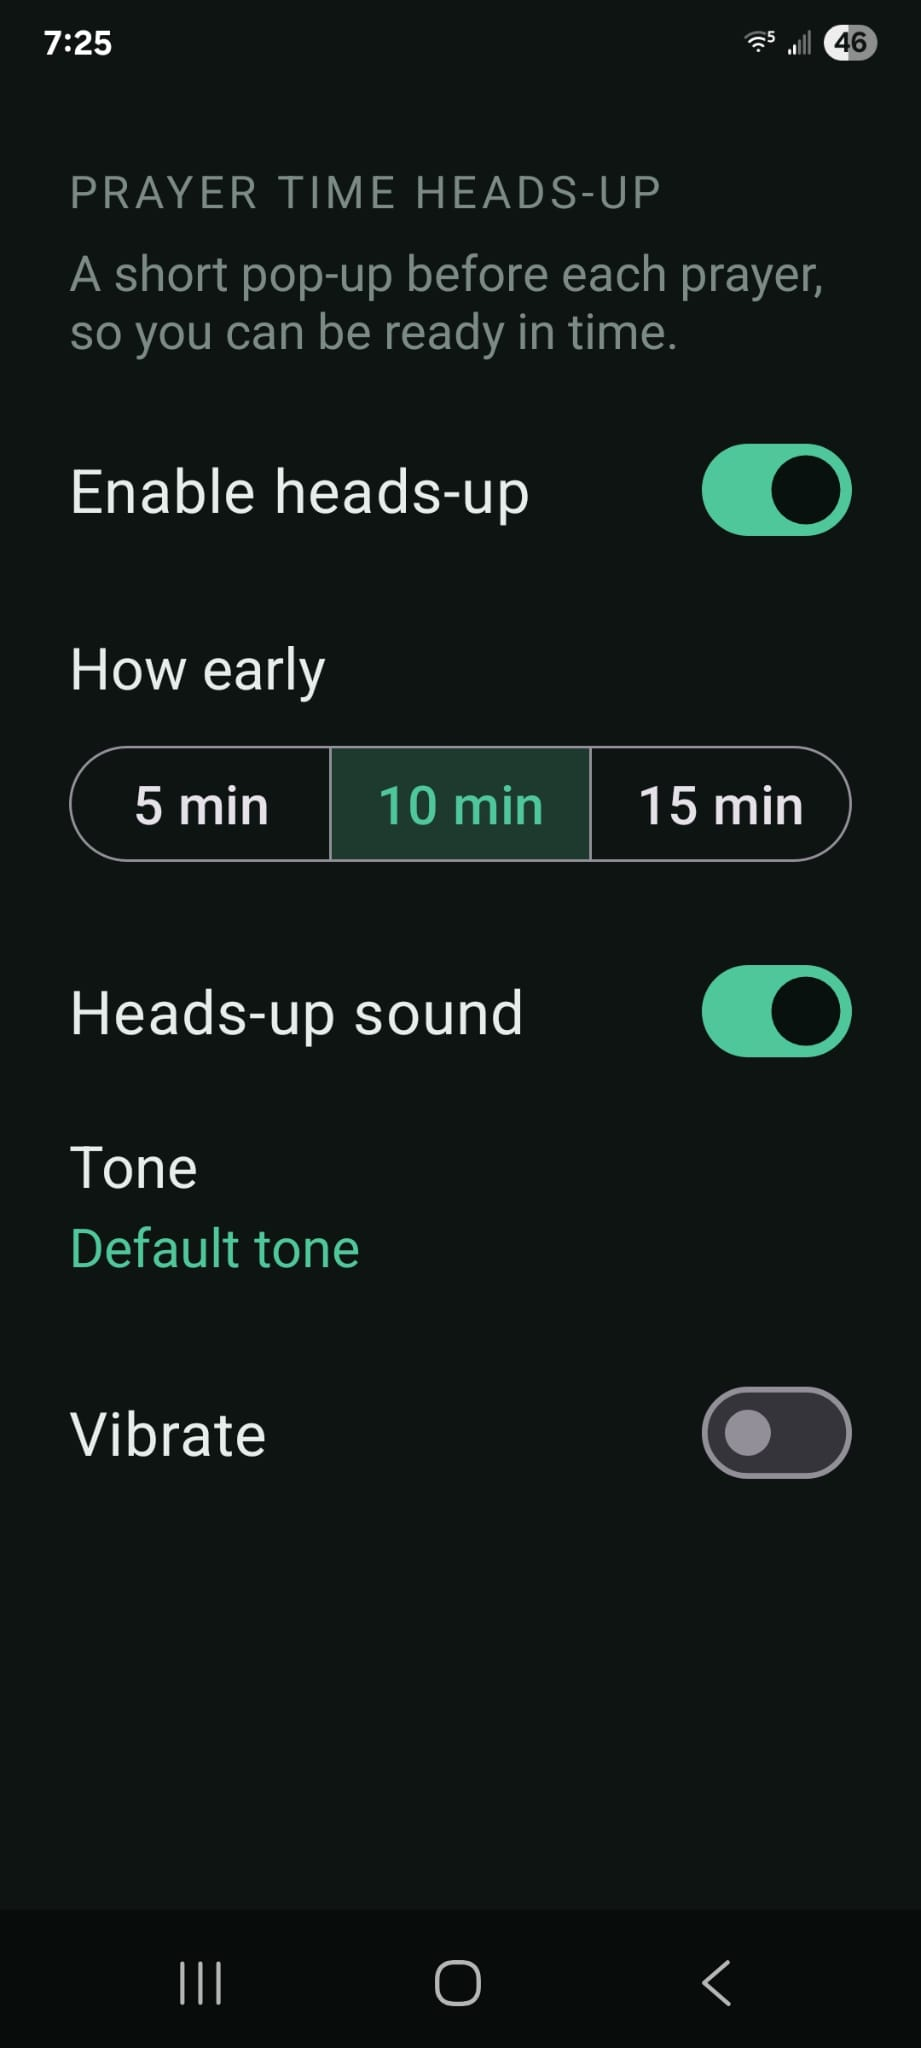
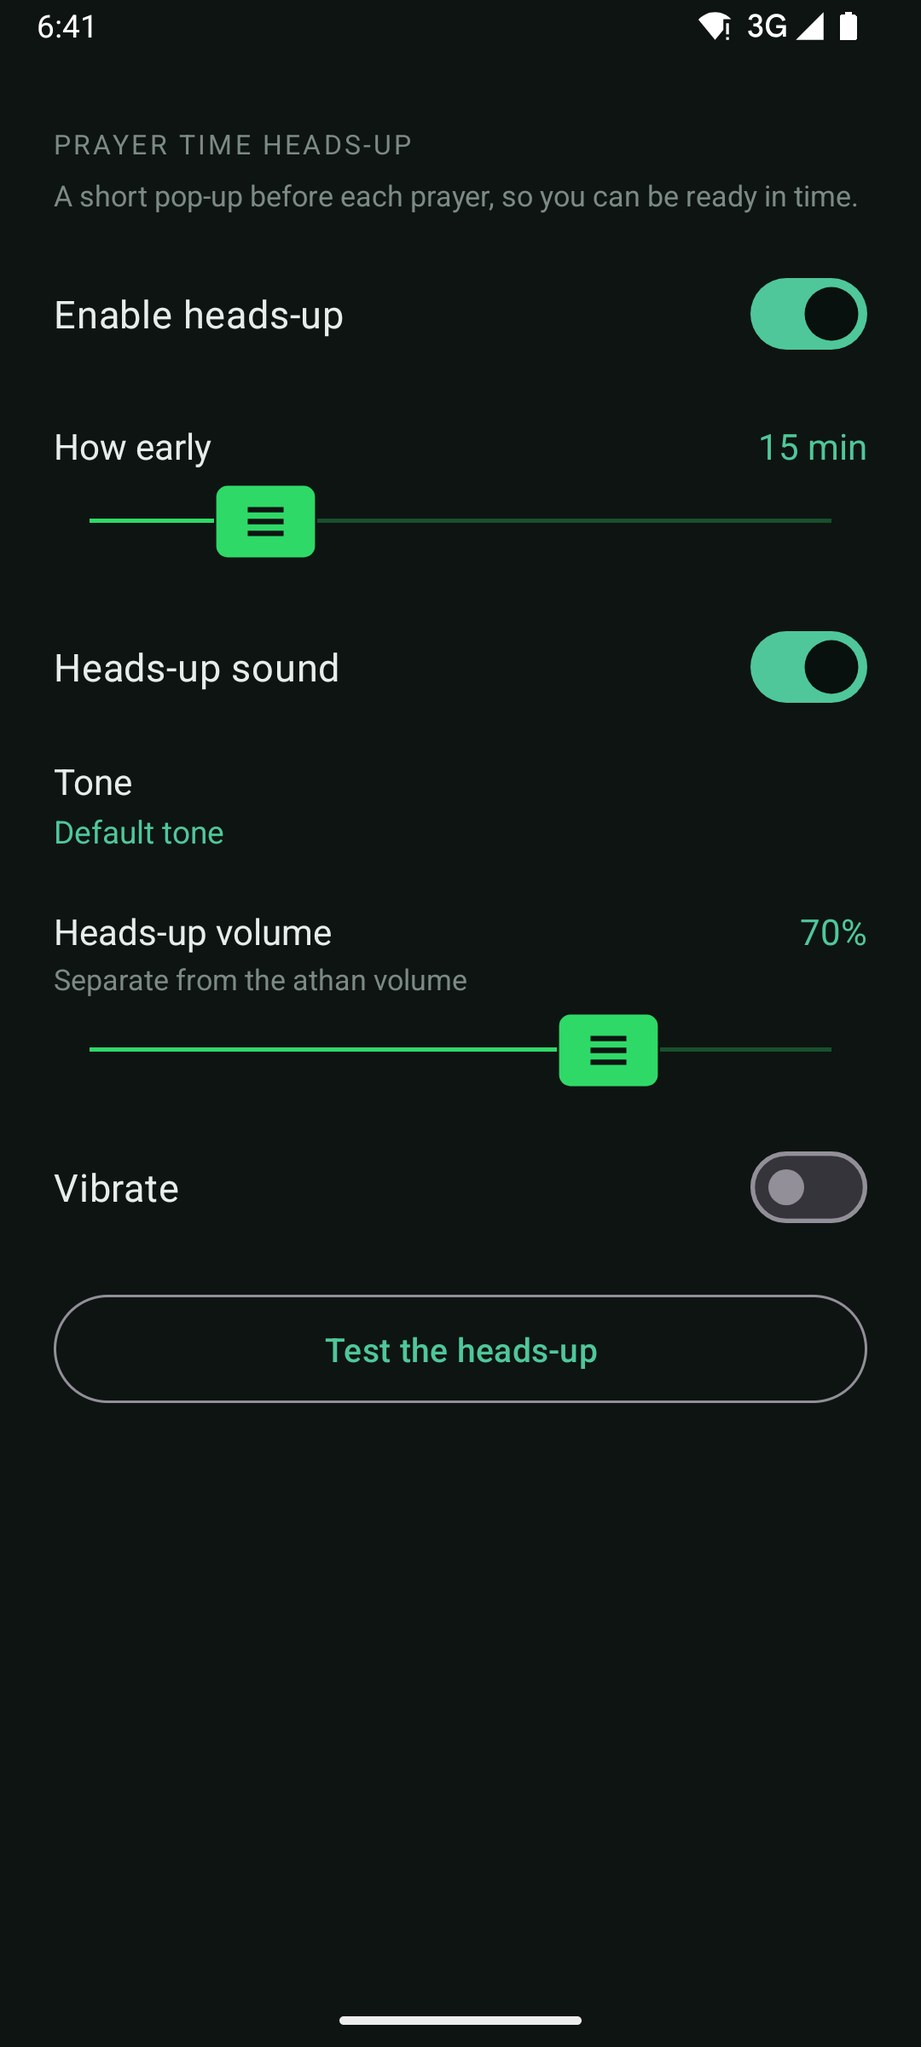
README: Google Play, 1.3.7's screens, and what the app does now
The README still described 1.1: an APK-only download, "no network calls"
(untrue since the optional temperature), a 5/10/15-minute heads-up, and the
old home screen. And the Arabic section spelled the app's name آذان - "ears" -
the slip the launcher icon was corrected for.

- Google Play link and badge; APK badge and file name at 1.3.7; a note that
  the Play and GitHub copies are signed differently and cannot be installed
  over each other.
- Arabic section: name fixed to أذان, features brought up to date (home
  screen, 1-60 minute heads-up, Check and test, Ramadan export and notes,
  athkar, languages, optional temperature), privacy wording that matches the
  privacy policy, and its own row of Arabic screenshots.
- English section: new screenshots of the home screen, times sheet, Check and
  test, Ramadan calendar and printable page, heads-up and Settings replace the
  outdated three; the feature list and privacy section match the app,
  including the Internet permission in the table.

Screenshots taken on an emulator set to Mecca on Mecca's time. The Arabic
times-sheet shot in store/whats-new-1.3.7 is retaken with the night icon.

diff --git a/README.md b/README.md
@@ -6,11 +6,12 @@
 
 <p align="center">
   <b>Offline prayer times, athan and qibla for Android.</b><br>
-  No account, no ads, no tracking, no network calls.
+  No account, no ads, no tracking. Works without the internet.
 </p>
 
 <p align="center">
-  <a href="../../releases/latest"><img src="https://img.shields.io/badge/download-APK%20v1.1-2FD968?style=flat-square" alt="Download APK"></a>
+  <a href="https://play.google.com/store/apps/details?id=com.ahmedkhalaf.athan"><img src="https://img.shields.io/badge/Google%20Play-get%20it-2FD968?style=flat-square" alt="Get it on Google Play"></a>
+  <a href="../../releases/latest"><img src="https://img.shields.io/badge/download-APK%20v1.3.7-2FD968?style=flat-square" alt="Download APK"></a>
   <img src="https://img.shields.io/badge/Android-8.0%2B-4FC79A?style=flat-square" alt="Android 8.0+">
   <img src="https://img.shields.io/badge/size-35%20MB-4FC79A?style=flat-square" alt="35 MB">
   <img src="https://img.shields.io/badge/code-MIT-4FC79A?style=flat-square" alt="MIT licence for the code">
@@ -22,15 +23,37 @@
 
 ## نبذة عن التطبيق
 
-**آذان** تطبيق مجاني خفيف لمواقيت الصلاة، يعمل بالكامل على هاتفك دون حاجة إلى إنترنت أو حساب. لا إعلانات فيه، ولا يجمع أي بيانات، ولا يرسل شيئًا إلى أي خادم.
+**أذان** تطبيق مجاني خفيف لمواقيت الصلاة، يعمل على هاتفك دون حاجة إلى إنترنت أو حساب. لا إعلانات فيه، ولا يجمع أي بيانات عنك.
+
+<p align="center">
+  <a href="https://play.google.com/store/apps/details?id=com.ahmedkhalaf.athan"><b>حمّله من Google Play</b></a>
+</p>
 
 ### ما الذي يقدّمه
 
-- **مواقيت الصلاة دون إنترنت** — تُحسب المواقيت على الجهاز نفسه اعتمادًا على إحداثيات موقعك، مع إمكانية اختيار طريقة الحساب والمذهب، وتعديل يدوي حتى 120 دقيقة زيادةً أو نقصًا إن اختلف توقيت مسجدك المحلي عن الحساب.
-- **الأذان في وقته** — لكل صلاة وضع مستقل: **صوت** أو **اهتزاز** أو **صامت**، يُغيَّر بلمسة واحدة على سطر الصلاة. ويُشغَّل الأذان على مسار المنبّه، فيُسمع حتى لو خفّضتَ جرس الهاتف، وتظهر شاشة الأذان فوق شاشة القفل بزرّ إيقاف واحد لا غير.
-- **تذكير قبل الصلاة** — تنبيه اختياري قبل دخول الوقت بـ 5 أو 10 أو 15 دقيقة، بنغمة أو باهتزاز.
-- **اتجاه القبلة** — بوصلة مصحَّحة إلى الشمال الحقيقي مع مراعاة الانحراف المغناطيسي، وعلامة الكعبة مثبَّتة على القرص.
-- **الشروق** يُعرض للاستئناس فقط، ولا يُرفع له أذان.
+- **شاشة رئيسية واضحة** — الصلاة القادمة والوقت المتبقي لها داخل حلقة تمتلئ كلما اقترب الوقت، وجدول اليوم كاملًا بلمسة على «جميع الأوقات». وتتكيّف الشاشة مع حجم الهاتف ومع تكبير الخط.
+- **مواقيت الصلاة دون إنترنت** — تُحسب على الجهاز نفسه من إحداثيات موقعك، مع اختيار طريقة الحساب والمذهب، وتعديل يدوي حتى 120 دقيقة إن اختلف توقيت مسجدك.
+- **الأذان في وقته** — لكل صلاة وضع مستقل: **صوت** أو **اهتزاز** أو **صامت**. ويُشغَّل الأذان بصوت المنبّه فيُسمع حتى لو خفّضتَ جرس الهاتف، وتظهر نافذته فوق شاشة القفل بزرّ إيقاف واحد.
+- **تنبيه قبل الصلاة** — اختياري، من دقيقة إلى 60 دقيقة قبل دخول الوقت، بنغمة ومستوى صوت مستقلَّين عن الأذان، ويمكنك أن تختار تسجيلًا من هاتفك.
+- **الفحص والتجربة** — شاشة في الإعدادات تبيّن هل كل شيء في هاتفك جاهز ليُرفع الأذان (الإشعارات، المنبّهات الدقيقة، الظهور فوق شاشة القفل، قيود البطارية، صوت المنبّه)، مع إصلاح أي خلل بلمسة، وزرّين لتسمع التنبيه والأذان الآن.
+- **تقويم رمضان** — الشهر كله في جدول واحد: السحور والشروق والظهر والعصر والإفطار والعشاء. يُشارَك ملفَّ PDF جاهزًا للطباعة أو صورةً أو جدولَ بيانات، ويمكنك إضافة ملاحظة على أي يوم.
+- **أذكار الصباح والمساء** — مع عدد المرات لكل ذكر ومن رواه.
+- **اتجاه القبلة** — بوصلة مصحَّحة إلى الشمال الحقيقي مع مراعاة الانحراف المغناطيسي، وعلامة الكعبة على القرص.
+- **عربي وإنجليزي** — تُبدَّل اللغة من الشاشة الرئيسية مباشرة.
+- **درجة الحرارة** — اختيارية، وهي الميزة الوحيدة التي تستعمل الإنترنت.
+
+### لقطات من التطبيق
+
+<p align="center">
+  <img src="docs/screenshots/ar-home.jpg" width="220" alt="الشاشة الرئيسية: الصلاة القادمة والوقت المتبقي">
+  <img src="docs/screenshots/ar-times-sheet.jpg" width="220" alt="أوقات الصلاة لليوم">
+  <img src="docs/screenshots/ar-check-and-test.jpg" width="220" alt="الفحص والتجربة">
+</p>
+<p align="center">
+  <img src="docs/screenshots/ar-ramadan-calendar.jpg" width="220" alt="تقويم رمضان مع الملاحظات">
+  <img src="docs/screenshots/ar-note.jpg" width="220" alt="إضافة ملاحظة على يوم من رمضان">
+  <img src="docs/screenshots/ar-ramadan-printable.jpg" width="220" alt="جدول رمضان جاهز للطباعة">
+</p>
 
 ### عن تسجيلات الأذان
 
@@ -42,11 +65,15 @@
 
 ### الخصوصية
 
-لا يجمع التطبيق أي بيانات ولا يرسل شيئًا خارج الهاتف: لا تتبُّع، ولا إعلانات، ولا اتصال بالشبكة أصلًا. تُحفظ إحداثيات موقعك في إعدادات التطبيق الخاصة على جهازك وحده، وتُستخدم لحساب المواقيت واتجاه القبلة فحسب.
+لا يجمع التطبيق أي بيانات: لا تتبُّع، ولا إعلانات، ولا حساب. تُحفظ إحداثيات موقعك في إعدادات التطبيق على جهازك وحده، وتُستخدم لحساب المواقيت واتجاه القبلة. والميزة الوحيدة التي تتصل بالإنترنت هي درجة الحرارة: تُرسَل إحداثياتك إلى خدمة Open-Meteo لتعيد حالة الطقس، ويسألك التطبيق قبل ذلك مرة واحدة، ويمكنك إيقافها من الإعدادات فلا يتصل التطبيق بالشبكة إطلاقًا.
 
 ### التحميل والتثبيت
 
-نزّل ملف `athan-v1.1.apk` من صفحة [الإصدارات](../../releases). عند فتحه سيطلب منك أندرويد السماح بالتثبيت من مصدر غير معروف، وهي رسالة معتادة لأي تطبيق يُثبَّت خارج متجر Play، ولا علاقة لها بالتطبيق نفسه. يتطلّب أندرويد 8.0 فأحدث، وحجمه نحو 35 ميجابايت.
+الأسهل من [**Google Play**](https://play.google.com/store/apps/details?id=com.ahmedkhalaf.athan)، وتصلك التحديثات تلقائيًا.
+
+أو نزّل ملف `athan-v1.3.7.apk` من صفحة [الإصدارات](../../releases). عند فتحه سيطلب منك أندرويد السماح بالتثبيت من مصدر غير معروف، وهي رسالة معتادة لأي تطبيق يُثبَّت خارج المتجر. يتطلّب أندرويد 8.0 فأحدث، وحجمه نحو 35 ميجابايت.
+
+ملاحظة: نسخة Google Play ونسخة GitHub موقَّعتان بمفتاحين مختلفين، فلا تُثبَّت إحداهما فوق الأخرى. للانتقال من نسخة GitHub إلى المتجر احذفها أولًا ثم ثبّت من المتجر.
 
 </div>
 
@@ -57,38 +84,49 @@
 It calculates prayer times offline, plays the athan at the right moment (even
 with the ringer down), and points to the qibla. Package
 `com.ahmedkhalaf.athan`; free, and free of ads.
+[**Get it on Google Play.**](https://play.google.com/store/apps/details?id=com.ahmedkhalaf.athan)
 
 ## Screenshots
 
 <p align="center">
-  <img src="docs/screenshots/home.jpg" width="220" alt="Prayer times for the day, with a per-prayer sound / vibrate / silent control">
+  <img src="docs/screenshots/home.jpg" width="220" alt="Home: the next prayer and the time left, in a ring that fills as it approaches">
+  <img src="docs/screenshots/times-sheet.jpg" width="220" alt="All times: today's table, with a per-prayer sound / vibrate / silent control">
+  <img src="docs/screenshots/check-and-test.jpg" width="220" alt="Check and test: everything the athan needs, and buttons to hear it now">
+</p>
+<p align="center">
+  <img src="docs/screenshots/ramadan-calendar.jpg" width="220" alt="Ramadan calendar, with notes on chosen days">
+  <img src="docs/screenshots/ramadan-printable.jpg" width="220" alt="The Ramadan timetable shared as a printable page">
+  <img src="docs/screenshots/heads-up.jpg" width="220" alt="Pre-prayer heads-up settings, with a test button">
+</p>
+<p align="center">
   <img src="docs/screenshots/settings.jpg" width="220" alt="Settings">
   <img src="docs/screenshots/calculation-method.jpg" width="220" alt="Calculation method picker">
-</p>
-<p align="center">
   <img src="docs/screenshots/qibla.jpg" width="220" alt="Qibla compass with a Kaaba marker on the dial">
-  <img src="docs/screenshots/qibla-accuracy.jpg" width="220" alt="Prompt to recalibrate the compass away from metal and magnets">
-  <img src="docs/screenshots/heads-up.jpg" width="220" alt="Pre-prayer heads-up settings">
 </p>
 <p align="center">
+  <img src="docs/screenshots/qibla-accuracy.jpg" width="220" alt="Prompt to recalibrate the compass away from metal and magnets">
   <img src="docs/screenshots/athan-sound.jpg" width="220" alt="Separate sound choice for Fajr and for the other prayers">
   <img src="docs/screenshots/sound-picker-other.jpg" width="220" alt="Sound picker: bundled recordings, a file from the device, or a ringtone">
-  <img src="docs/screenshots/sound-picker-fajr.jpg" width="220" alt="Fajr sound picker">
 </p>
 <p align="center">
+  <img src="docs/screenshots/sound-picker-fajr.jpg" width="220" alt="Fajr sound picker">
   <img src="docs/screenshots/more-athans.jpg" width="220" alt="Links out to athan libraries in the browser">
   <img src="docs/screenshots/downloaded-athans.jpg" width="220" alt="Athans you downloaded yourself appear here">
 </p>
 
-<p align="center"><sub>Location details are blacked out in these screenshots. The app keeps your location on the device only.</sub></p>
+<p align="center"><sub>The newer screenshots are set to Mecca; in the older ones location details are blacked out. The app keeps your location on the device only.</sub></p>
 
 ---
 
 ## Download and install
 
+The easy way is [**Google Play**](https://play.google.com/store/apps/details?id=com.ahmedkhalaf.athan),
+which also keeps it updated. The steps below are for installing the APK from
+GitHub instead.
+
 **1. Download the APK**
 
-Go to the [**Releases**](../../releases) page and download `athan-v1.1.apk` from
+Go to the [**Releases**](../../releases) page and download `athan-v1.3.7.apk` from
 the latest release. You can do this straight from your phone's browser.
 
 **2. Allow the install**
@@ -123,7 +161,11 @@ before, not that it found anything. Tap **More details → Install anyway** (or
 ### Updating later
 
 Download the newer APK and install it over the top. Your settings are kept.
-Every release is signed with the same key, so updates install cleanly.
+Every GitHub release is signed with the same key, so updates install cleanly.
+
+Google Play signs its copy with Google's own key, so the Play version and the
+GitHub APK cannot be installed over each other. To move from the APK to Google
+Play, uninstall the APK first (this clears its settings), then install from Play.
 
 ### If you'd rather not install an APK
 
@@ -132,6 +174,12 @@ You can also build it yourself from this source — see [Building](#building-fro
 ---
 
 ## What it does
+
+**The next prayer, at a glance.** The home screen shows the next prayer and the
+time left, inside a ring that fills as it approaches. Today's full table is one
+tap away under *All times*. The layout fits itself to the phone, including large
+text sizes and display zoom. Prefer the table on the screen itself? Settings ->
+Home screen -> Full timetable.
 
 **Prayer times, fully offline.** Computed with the
 [adhan](https://github.com/batoulapps/adhan-java) library from your coordinates.
@@ -148,15 +196,34 @@ Doze mode never delays. Alarms are re-armed after each prayer, after a reboot,
 and after a timezone change or the clock being set.
 
 **Pre-prayer heads-up.** Optional reminder anywhere from 1 to 60 minutes before
-each prayer, with its own tone or vibration and its own volume, separate from the
-athan's. It banners while you are using the phone and opens a full window when the
-screen is locked.
+each prayer, with its own tone (any sound on the phone, including your own
+recording) or vibration, and its own volume, separate from the athan's. It
+banners while you are using the phone and opens a full window when the screen is
+locked.
+
+**Check and test.** The first row in Settings lists everything on the phone that
+can silently stop an athan (notifications, exact alarms, showing over the lock
+screen, a Restricted battery setting, a muted alarm volume), each with a tap to
+fix it, and plays the next prayer's heads-up or athan on demand, exactly as it is
+set.
+
+**Ramadan calendar.** The whole month in one table: suhoor, sunrise, Dhuhr, Asr,
+iftar and Isha. Share it as a one-page PDF ready to print, an image, or a
+spreadsheet. Tap any day to add a note; notes go out with the timetable.
+
+**Morning and evening athkar**, with how many times each is said and who
+narrated it.
 
 **Qibla compass.** True-north corrected (magnetic declination is applied), with a
 Kaaba marker on the dial. Falls back to showing the bearing in degrees if your
 phone has no magnetometer.
 
 **Sunrise** is displayed for reference, and never fires an athan.
+
+**Arabic and English**, switched from the home screen.
+
+**Temperature (optional).** The current temperature and sky, and an umbrella if
+rain is coming. The only feature that uses the internet; see [Privacy](#privacy).
 
 ---
 
@@ -194,10 +261,15 @@ Not to your taste? The app makes it easy to use something else:
 
 ## Privacy
 
-**Nothing is collected, and nothing leaves your phone.** There is no analytics
-SDK, no crash reporter, no ad network, and the app makes no network requests at
-all. Your coordinates are stored in the app's own private settings and used only
-for the astronomy calculations.
+**Nothing is collected.** There is no analytics SDK, no crash reporter, no ad
+network and no account. Your coordinates are stored in the app's own private
+settings and used for the astronomy calculations.
+
+The one exception is the optional temperature: to show it, your coordinates are
+sent to [Open-Meteo](https://open-meteo.com/), which returns the weather. The app
+asks once before doing this, and turning it off in Settings → Temperature stops
+all network requests. Full details are in the
+[privacy policy](docs/privacy-policy.html).
 
 Permissions and why they exist:
 
@@ -209,6 +281,7 @@ Permissions and why they exist:
 | Full-screen intent | To show the athan window over the lock screen |
 | Foreground service (media playback) | Android requires one to play the athan reliably |
 | Read audio | Only to list athan files you downloaded yourself. Nothing is uploaded. |
+| Internet | Only for the optional temperature (Open-Meteo). Off means no network use at all. |
 | Vibrate, wake lock, boot completed | Vibration mode, waking the screen, re-arming alarms after a restart |
 
 ---
@@ -216,7 +289,7 @@ Permissions and why they exist:
 ## Building from source
 
 ```bash
-git clone https://github.com/<your-account>/Athan.git
+git clone https://github.com/nandxorandor/Athan.git
 cd Athan
 ./gradlew assembleDebug
 ```
